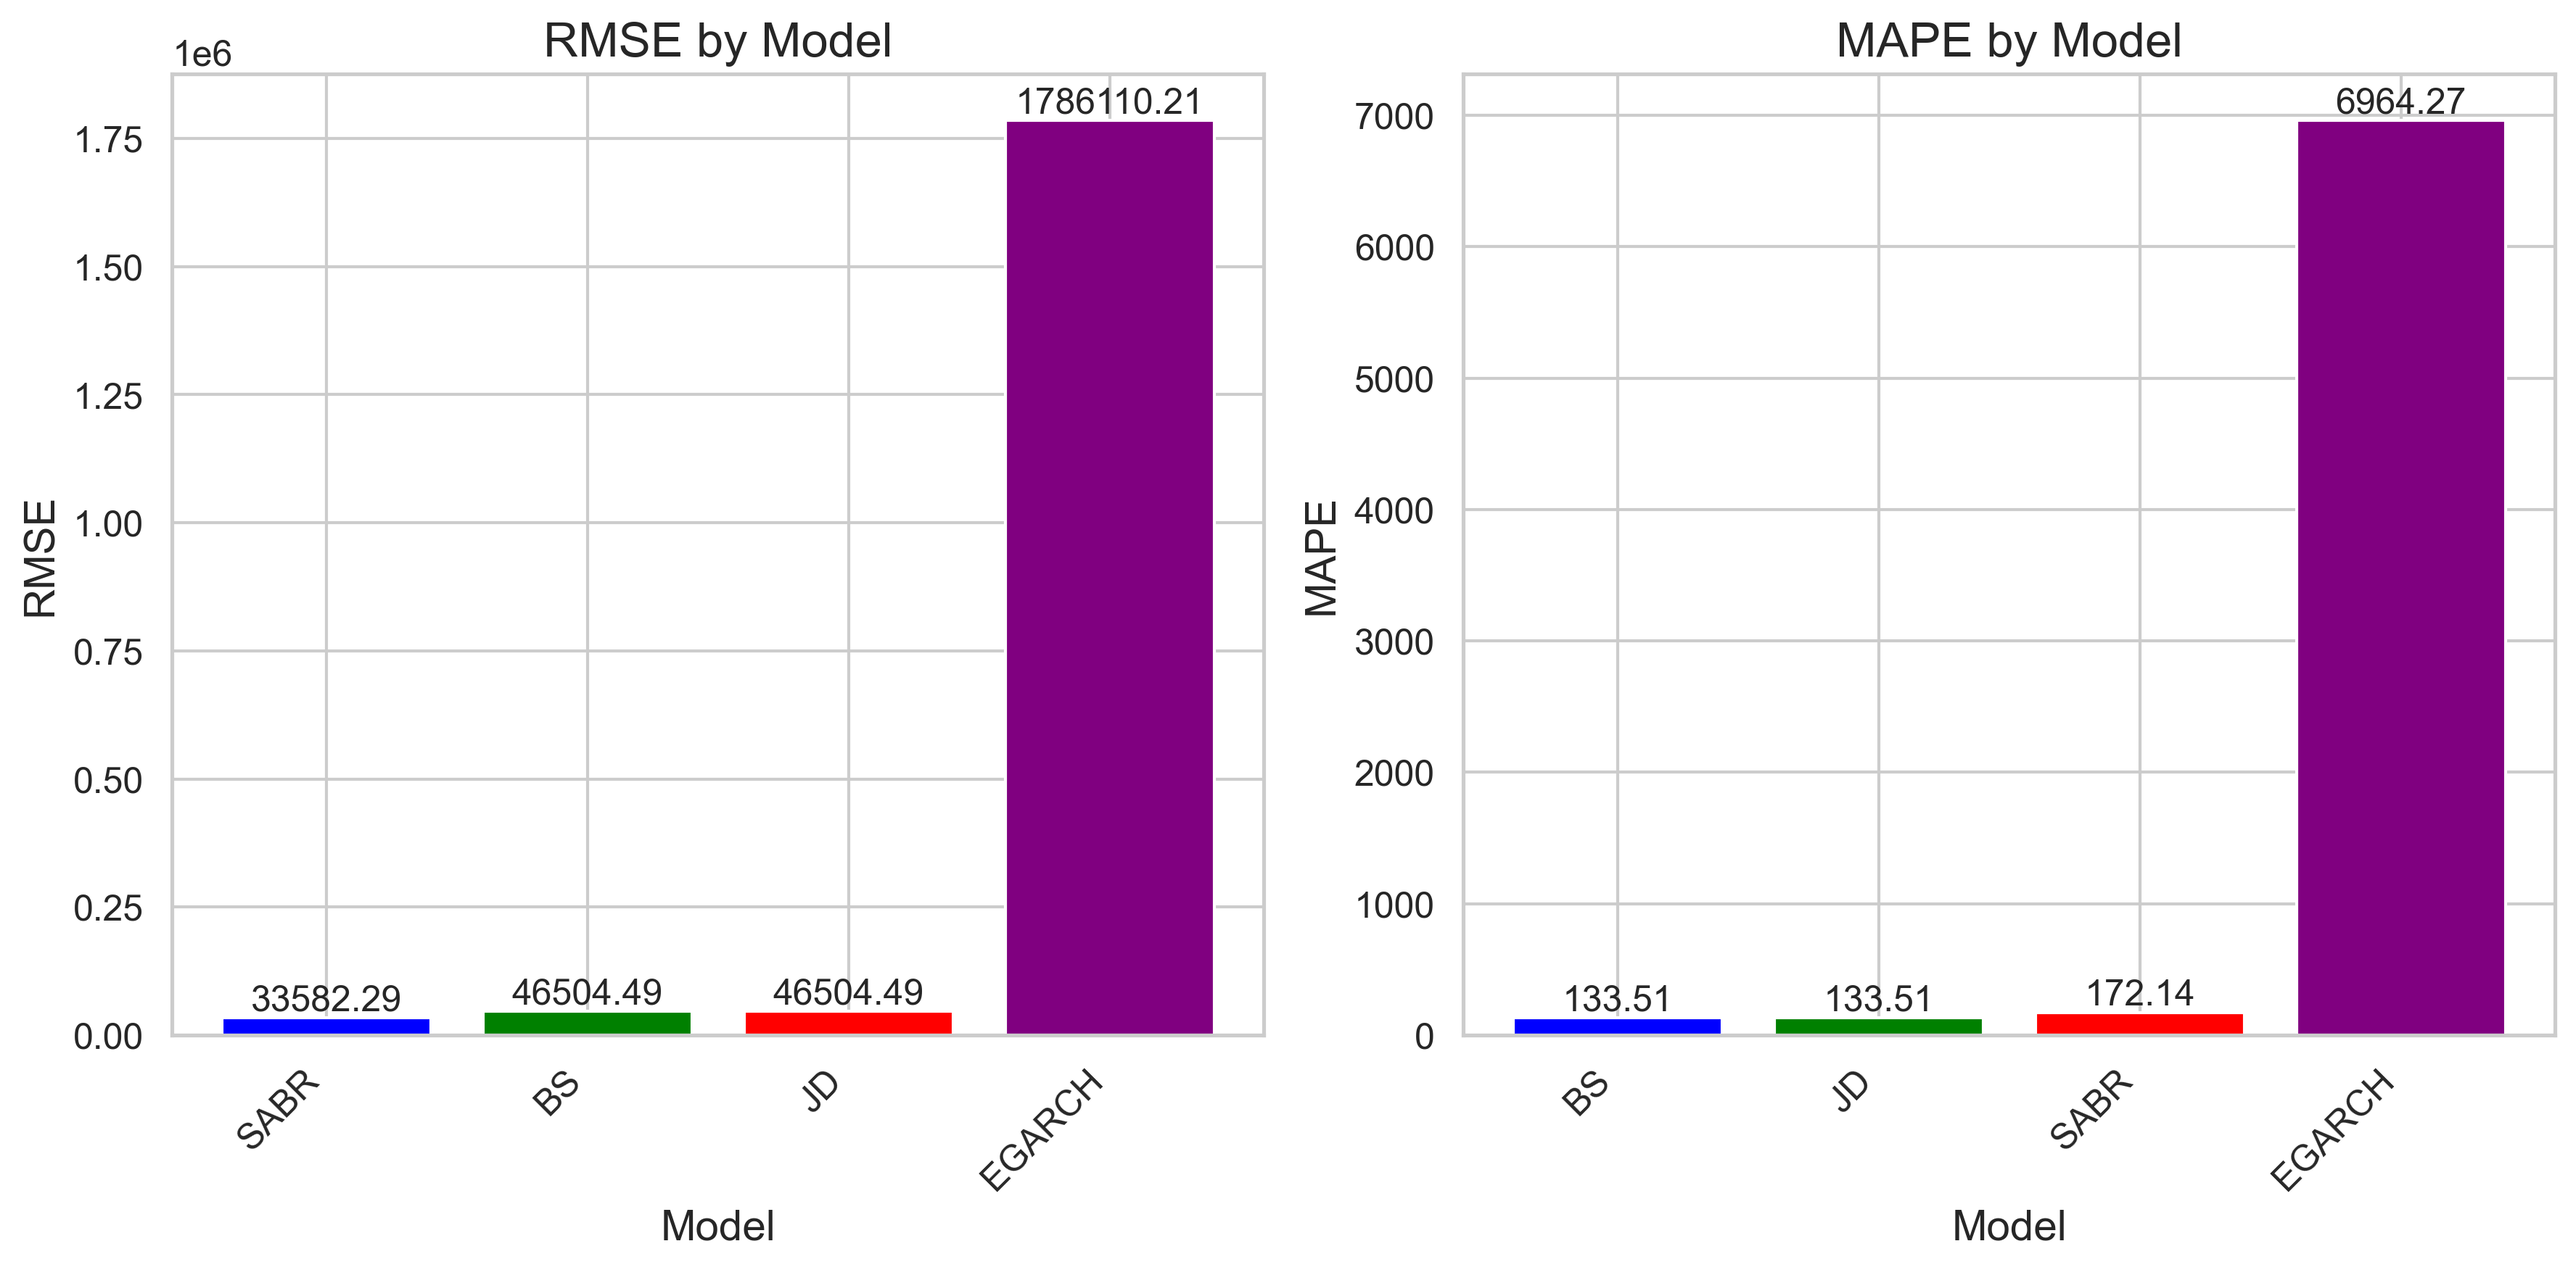
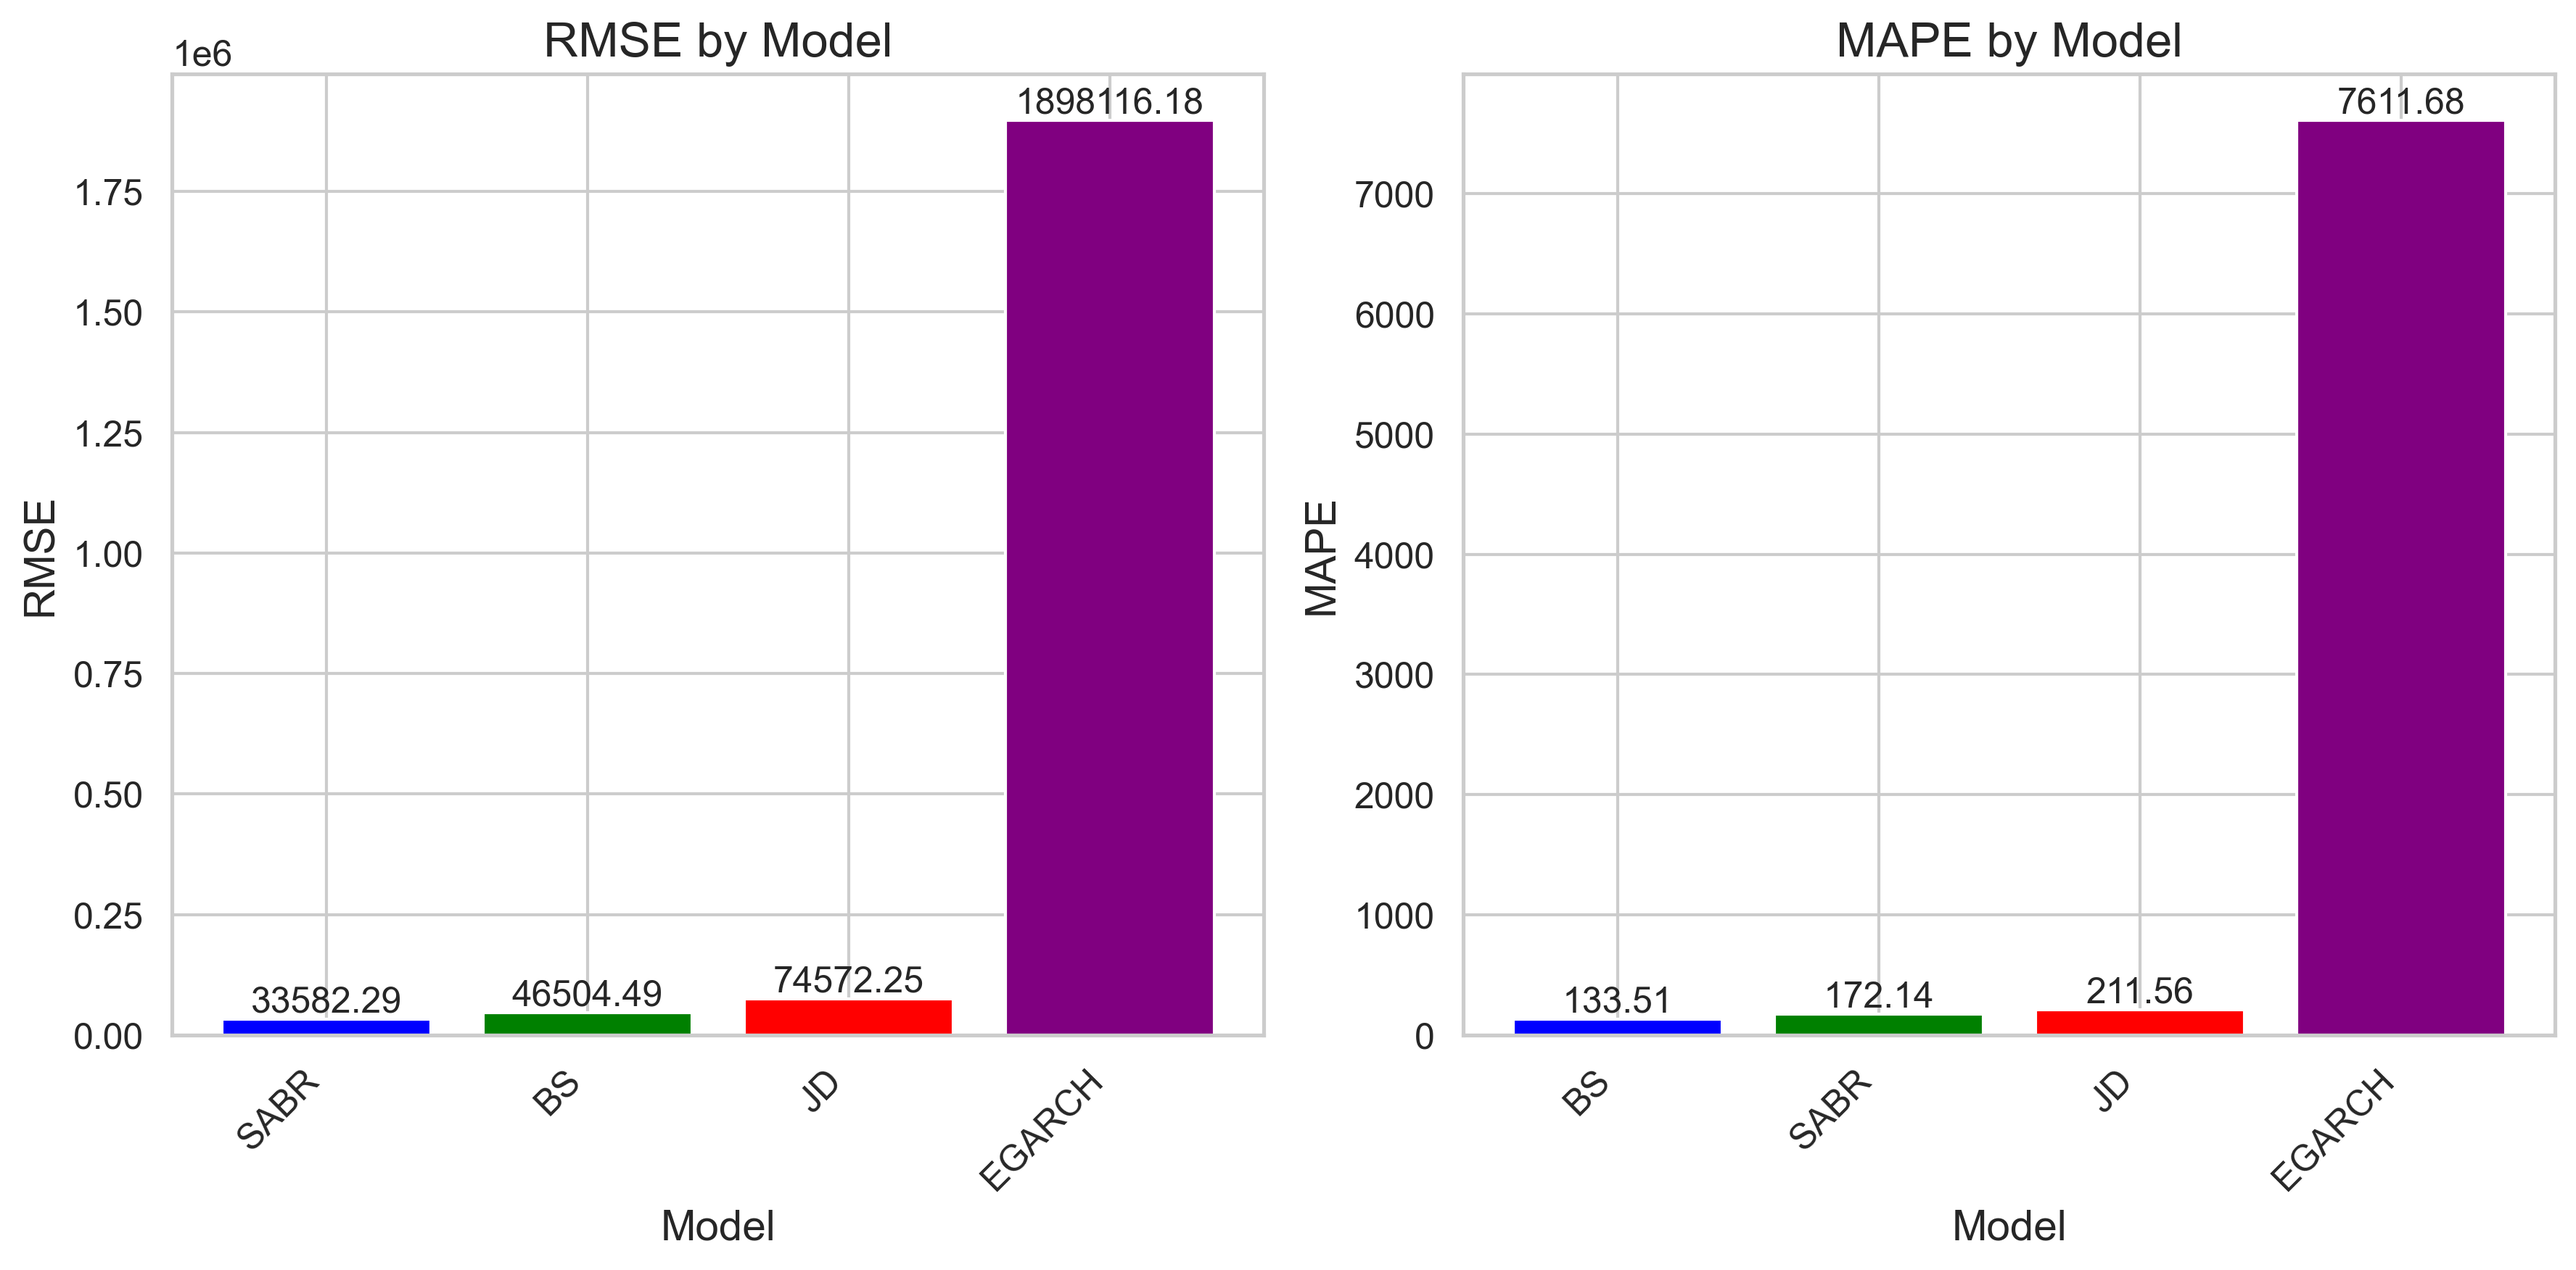
update 06/05

diff --git a/src/models/jump_diffusion.py b/src/models/jump_diffusion.py
@@ -30,22 +30,14 @@ def poisson_pmf(k, lambda_val):
     return np.exp(-lambda_val) * (lambda_val ** k) / math.factorial(k)
 
 # Compile critical functions with Numba for performance
+
+# In src/models/jump_diffusion.py
+# Modified JIT function
 @jit(nopython=True)
 def _jd_price_jit(spot, strike, T, r_d, r_f, vol, lambda_jump, jump_mean, jump_std, option_type_call, n_terms=15):
     """
     JIT-compiled function to calculate Jump-Diffusion option price.
-    
-    Args:
-        spot, strike: Spot and strike prices
-        T: Time to maturity in years
-        r_d, r_f: Domestic and foreign interest rates
-        vol: Volatility
-        lambda_jump, jump_mean, jump_std: Jump parameters
-        option_type_call: Boolean (True for call, False for put)
-        n_terms: Number of terms in the series
-        
-    Returns:
-        float: Option price
+    Using custom implementation of norm.cdf instead of scipy.stats
     """
     # Handle edge cases
     if T <= 0.0 or vol <= 0.0:
@@ -63,8 +55,10 @@ def _jd_price_jit(spot, strike, T, r_d, r_f, vol, lambda_jump, jump_mean, jump_s
     
     # Sum over number of jumps
     for n in range(n_terms):
-        # Probability of exactly n jumps (using our custom function)
-        p_n_jumps = poisson_pmf(n, lambda_jump * T)
+        # Probability of exactly n jumps
+        p_n_jumps = np.exp(-lambda_jump * T) * (lambda_jump * T)**n
+        for i in range(1, n+1):
+            p_n_jumps = p_n_jumps / i  # factorial calculation
         
         # Adjusted volatility for n jumps
         vol_n = np.sqrt(vol**2 + n * jump_std**2 / T)
@@ -72,19 +66,47 @@ def _jd_price_jit(spot, strike, T, r_d, r_f, vol, lambda_jump, jump_mean, jump_s
         # Adjusted drift for n jumps
         drift_n = adjusted_drift + n * jump_mean / T
         
-        # Black-Scholes price for n jumps
+        # d1 and d2 for Black-Scholes
         d1 = (np.log(spot / strike) + (drift_n + 0.5 * vol_n**2) * T) / (vol_n * np.sqrt(T))
         d2 = d1 - vol_n * np.sqrt(T)
         
+        # Custom implementation of norm.cdf for Numba compatibility
+        # Use approximation of normal CDF
         if option_type_call:
-            bs_price = spot * np.exp(-r_f * T) * norm.cdf(d1) - strike * np.exp(-r_d * T) * norm.cdf(d2)
+            bs_price = spot * np.exp(-r_f * T) * _norm_cdf(d1) - strike * np.exp(-r_d * T) * _norm_cdf(d2)
         else:
-            bs_price = strike * np.exp(-r_d * T) * norm.cdf(-d2) - spot * np.exp(-r_f * T) * norm.cdf(-d1)
+            bs_price = strike * np.exp(-r_d * T) * _norm_cdf(-d2) - spot * np.exp(-r_f * T) * _norm_cdf(-d1)
         
         # Add weighted contribution
         option_price += p_n_jumps * bs_price
     
     return option_price
+
+
+@jit(nopython=True)
+def _norm_cdf(x):
+    """
+    Approximation of the normal CDF compatible with Numba.
+    """
+    # Constants for approximation
+    a1 = 0.254829592
+    a2 = -0.284496736
+    a3 = 1.421413741
+    a4 = -1.453152027
+    a5 = 1.061405429
+    p = 0.3275911
+    
+    # Save the sign
+    sign = 1.0
+    if x < 0.0:
+        sign = -1.0
+        x = -x
+    
+    # A&S formula 7.1.26
+    t = 1.0 / (1.0 + p * x)
+    y = 1.0 - (((((a5 * t + a4) * t) + a3) * t + a2) * t + a1) * t * np.exp(-x * x)
+    
+    return 0.5 * (1.0 + sign * y)
 
 class JumpDiffusionModel:
     """

diff --git a/src/data_generation/option_generator.py b/src/data_generation/option_generator.py
@@ -45,6 +45,13 @@ class OptionGenerator:
         # Initialize empty portfolio
         self.options = []
         
+        # Initialize market data handler for spot rate lookup
+        from src.market_data.data_handler import MarketDataHandler
+        self.market_handler = MarketDataHandler(config_path=config_path)
+        
+        # Load market data if available
+        self.spot_rates, self.volatility, self.interest_rates = self.market_handler.load_market_data()
+        
         logger.info("Option Generator initialized with configuration from %s", config_path)
     
     def _load_config(self, config_path):
@@ -171,6 +178,17 @@ class OptionGenerator:
                 logger.warning(f"Cannot add option at {issue_date.strftime('%Y-%m-%d')} - would exceed max active notional")
                 return None
         
+        # Get historical spot rate at issue date
+        issue_date_str = issue_date.strftime('%Y-%m-%d')
+        spot_rate = self.market_handler.get_rate_at_date(issue_date_str, 'spot')
+        
+        # Get interest rates at issue date
+        eur_rate = self.market_handler.get_rate_at_date(issue_date_str, 'eur_rate')
+        tnd_rate = self.market_handler.get_rate_at_date(issue_date_str, 'tnd_rate')
+        
+        # Get historical volatility at issue date
+        hist_vol = self.market_handler.get_rate_at_date(issue_date_str, 'volatility')
+        
         # Create option contract
         option = {
             'option_id': str(uuid.uuid4())[:8],  # Generate a unique ID
@@ -181,11 +199,11 @@ class OptionGenerator:
             'issue_date': issue_date.strftime('%Y-%m-%d'),
             'maturity_date': maturity_date.strftime('%Y-%m-%d'),
             'days_to_maturity': (maturity_date - issue_date).days,
-            'spot_rate_at_issue': self.market_config['spot_price'],
-            'domestic_rate': self.market_config['eur_interest_rate'],
-            'foreign_rate': self.market_config['tnd_interest_rate'],
+            'spot_rate_at_issue': spot_rate,  # Use actual historical spot rate
+            'domestic_rate': eur_rate,         # Use actual interest rate
+            'foreign_rate': tnd_rate,          # Use actual interest rate
             # Strike price will be set slightly out of the money
-            'strike_price': round(self.market_config['spot_price'] * (1 + random.uniform(0.01, 0.1)), 4),
+            'strike_price': round(spot_rate * (1 + random.uniform(0.01, 0.1)), 4),
             'implied_volatility': None,  # Will be calculated by pricing models
             'bs_price': None,            # Black-Scholes price
             'egarch_price': None,        # E-GARCH MC price
